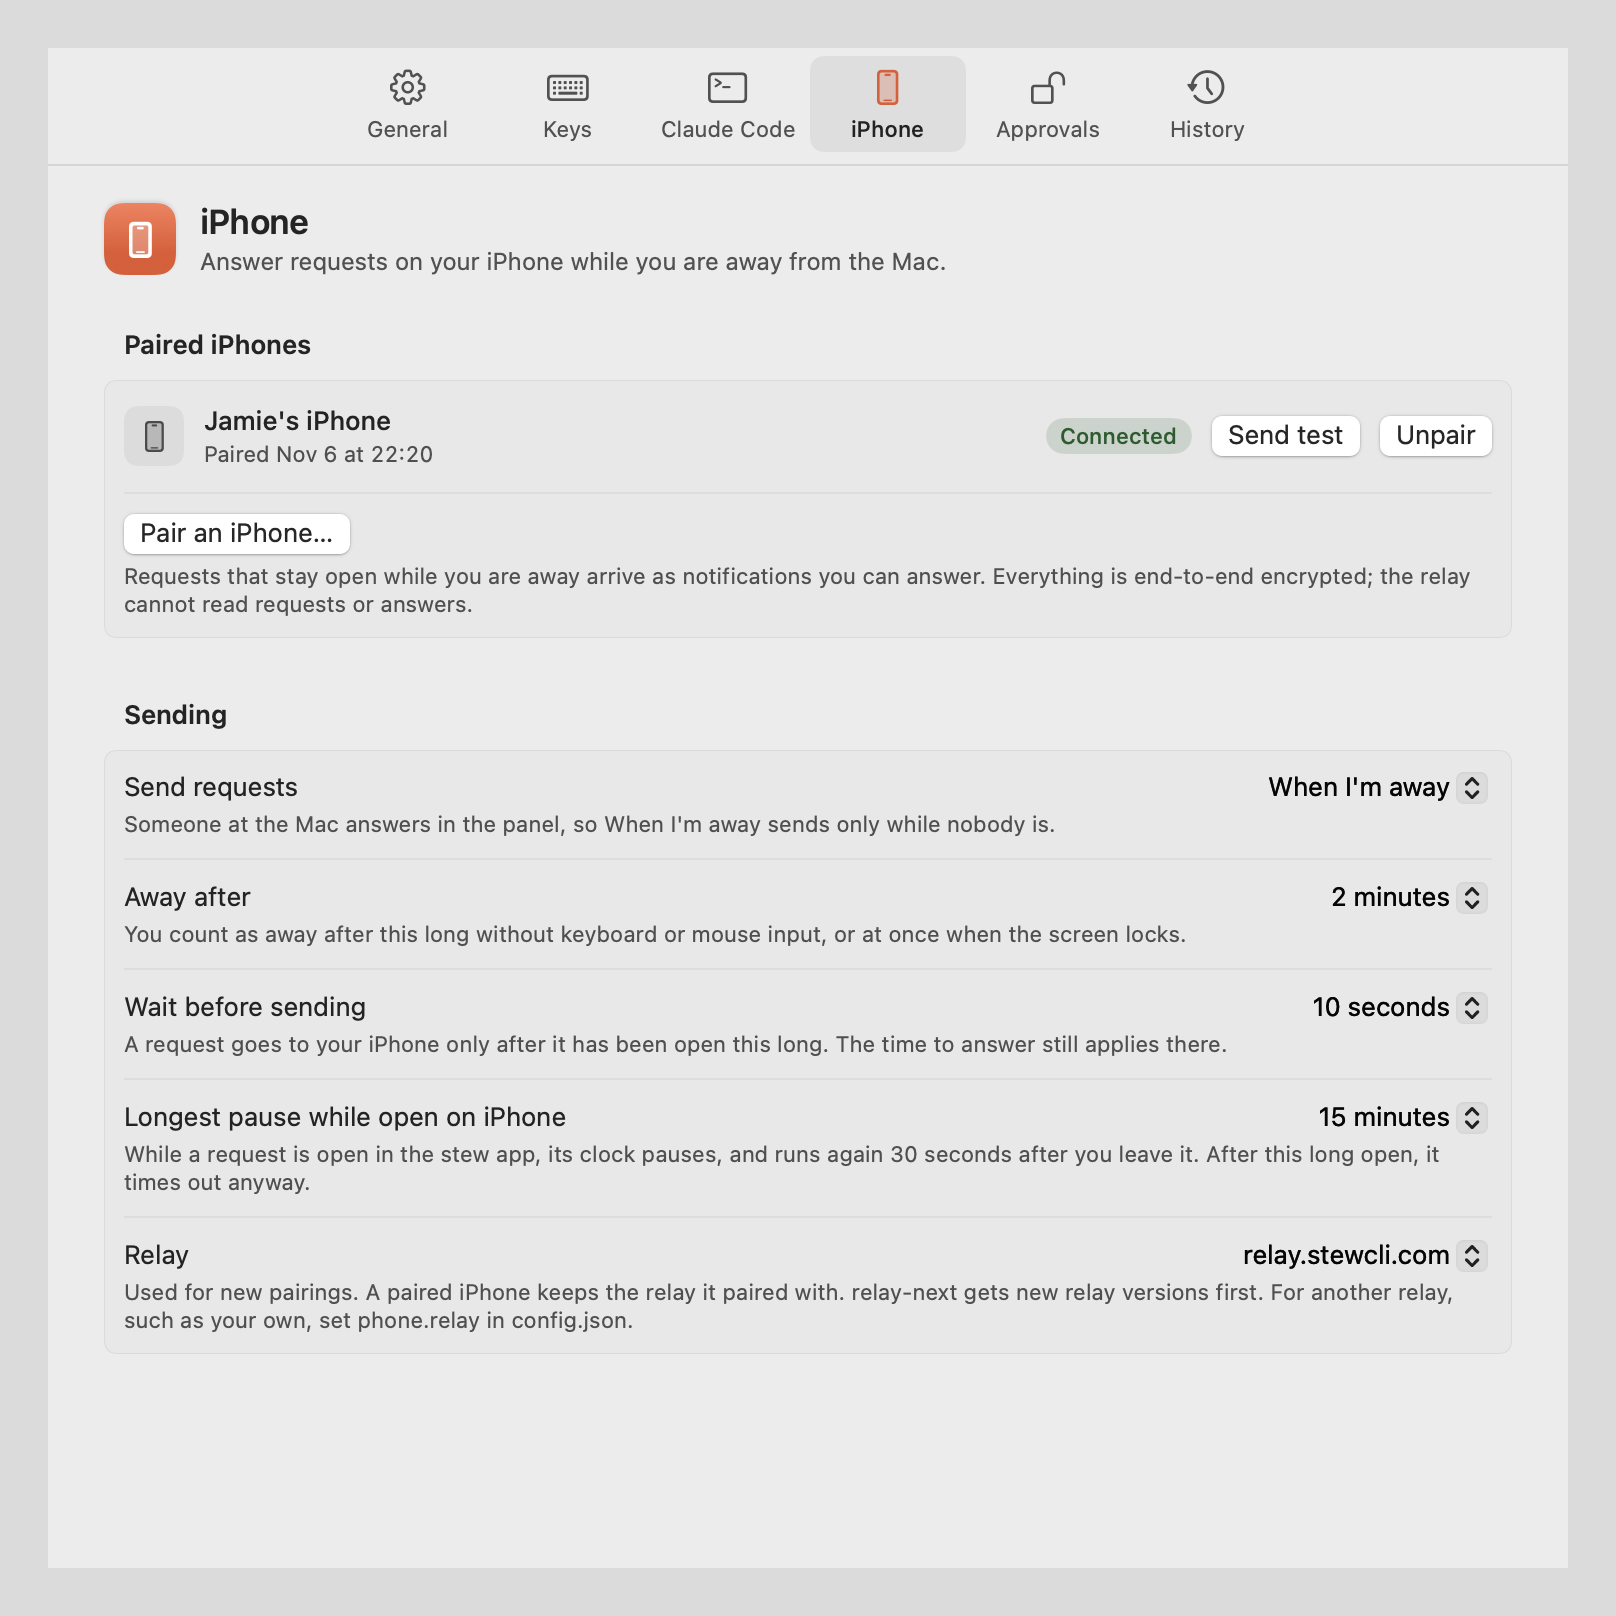
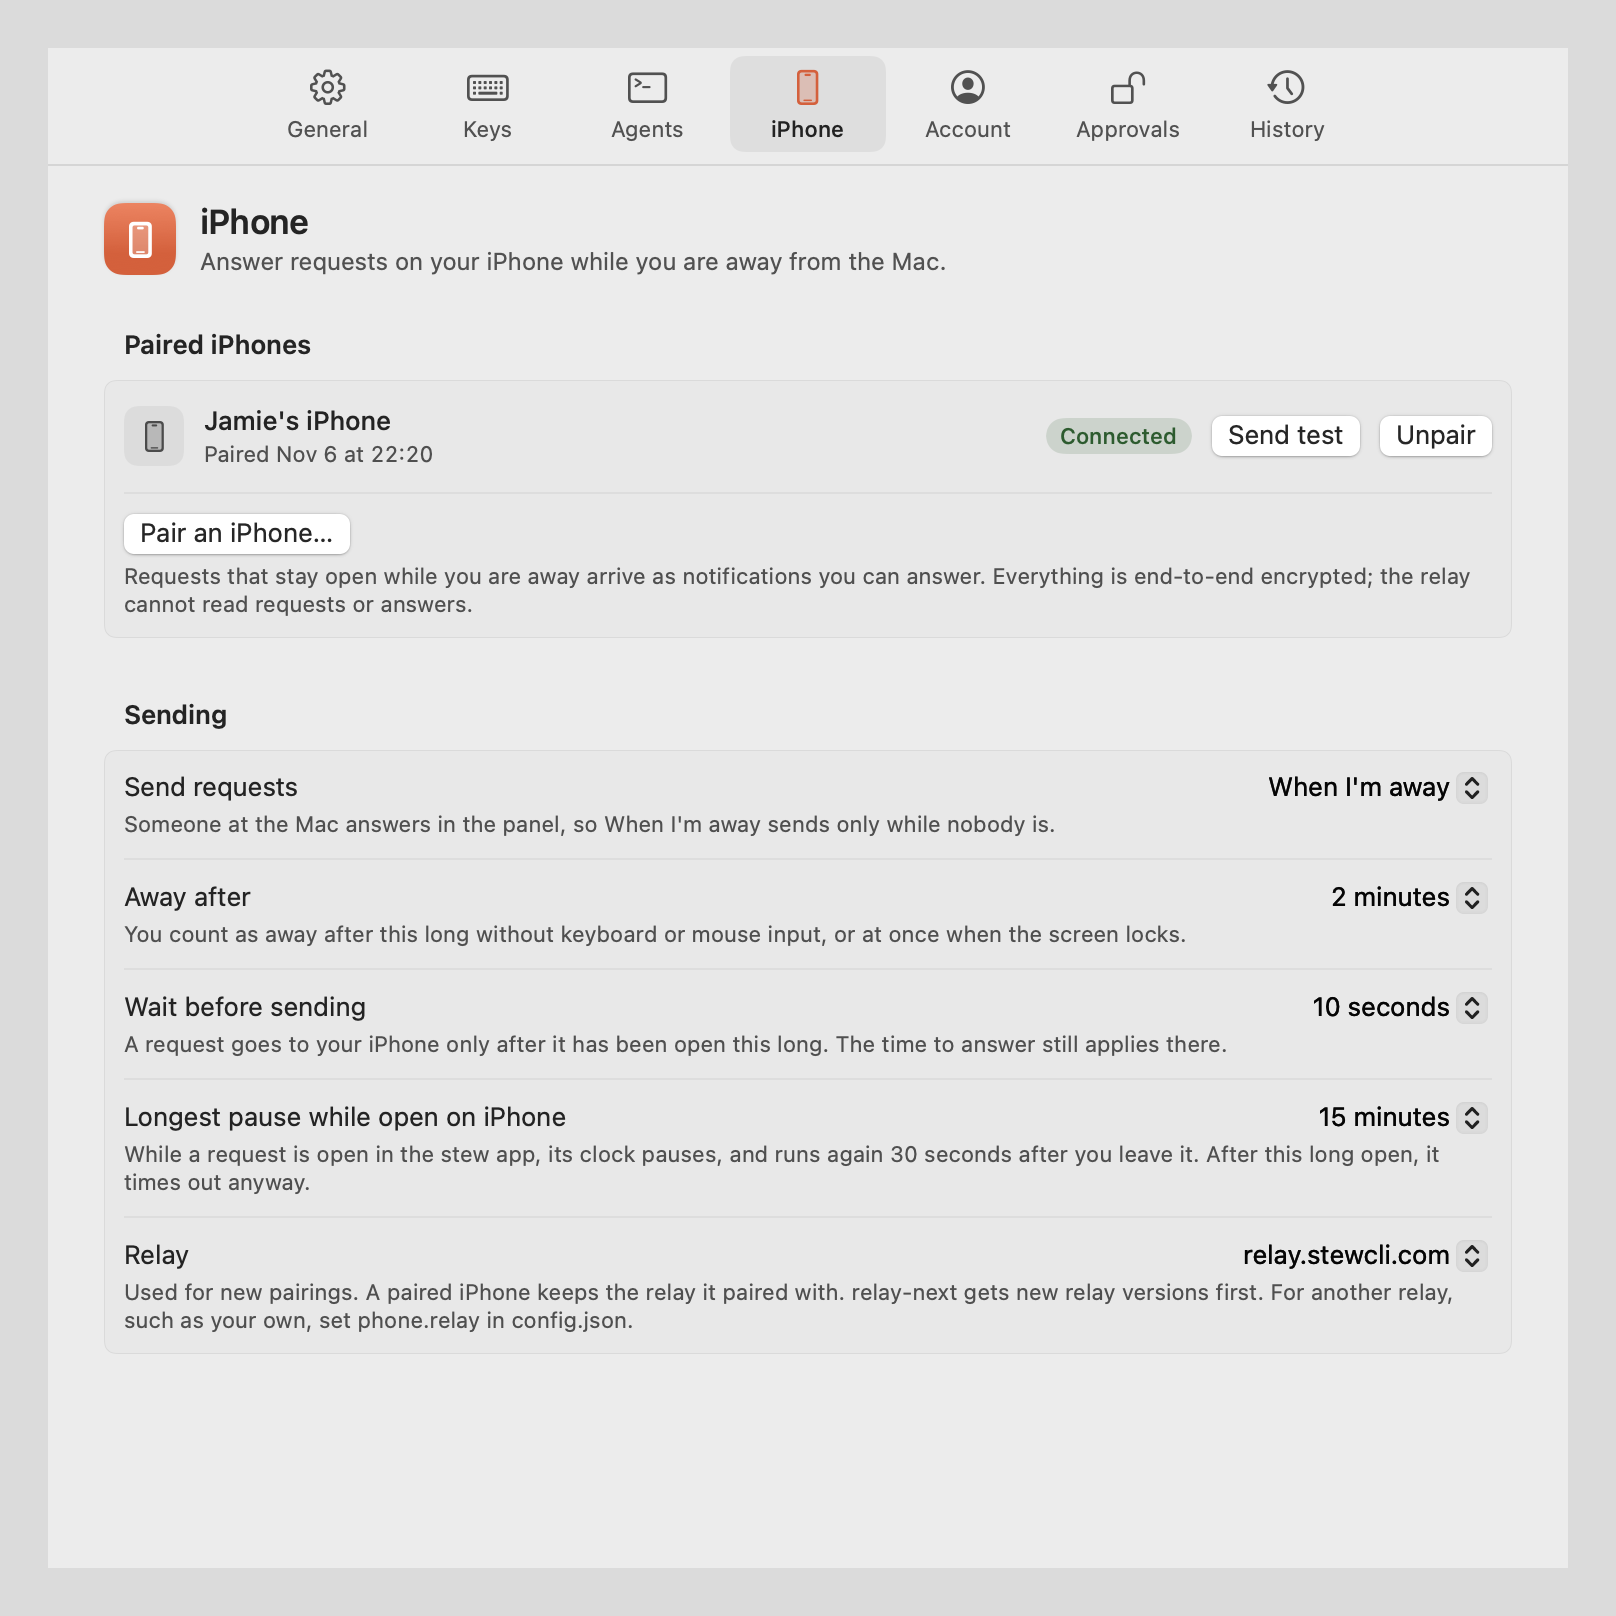
Update the README images for Codex, the account, the setup window and the stopped clock
Re-rendered only the images whose content changed: the grant picker and the
multi-question panel now show the stopped clock, the General pane has the Setup
section, and the iPhone panes' tab bar has Agents and Account. The other images
differ only in how this Mac renders tints today, so they stay as they are.

New images show a Codex approval, the Agents and Account panes, the setup
window's Agents step, a question with one of two answers picked, and a needs
item held on screen after its session ended it.

Changed region(s): [[0.3403, 0.0309, 0.8045, 0.0928], [0.1856, 0.0309, 0.3094, 0.0928]]

diff --git a/README.md b/README.md
@@ -88,6 +88,8 @@ The first time stew starts with no hooks installed for any agent, it opens a set
 4. **iPhone:** whether you are signed in and have a paired iPhone, with buttons to Settings → Account and Settings → iPhone.
 5. **Done:** where the menu bar icon is, how to reopen Settings and this window, and [stewcli.com/help](https://stewcli.com/help).
 
+![The setup window: skill and hooks installed for Claude Code and Codex](docs/images/setup-agents-installed-light.png)
+
 Closing the window, at any step, sets `"setup": {"completed": true}` in the config, so it does not open by itself again. Until then, opening Stew.app opens it instead of Settings. Reopen it any time with Set up stew… in the menu bar menu or in Settings → General.
 
 ### Let your agent set it up
@@ -140,7 +142,11 @@ What hooks cannot change:
 3. If the time to answer runs out, you close the panel, or stew is not running, stew decides nothing and Codex shows its own approval prompt in the terminal. Answer it there; such a request is not answered late from History.
 4. The `Stop` and `UserPromptSubmit` hooks do what they do for Claude Code: needs items from a `needs input:` line, and late answers to `stew` calls from that session.
 
+![Codex asks to run a command, in stew](docs/images/permission-codex-light.png)
+
 **Trust the hooks in Codex.** Codex runs a new or changed hook only after you review and trust it ([Codex hooks](https://learn.chatgpt.com/docs/hooks)). After installing, open `/hooks` in Codex and trust the stew hooks. Codex asks again when a hook changes, for example after the path to stew changes. `stew hooks status --agent codex` reminds you, and warns when `[features] hooks = false` in `~/.codex/config.toml` turns all hooks off.
+
+![Settings, Agents, with Claude Code and Codex](docs/images/settings-agents-codex-light.png)
 
 What Codex does not have, so stew does not do for it: auto mode and its retry after a block, standing approvals (Allow more…), and the AskUserQuestion tool. Codex does not say whether anyone is at the terminal either, so its needs items appear only with "Needs you from agents" set to Always in stew. Codex needs 0.122 or later for `PermissionRequest` hooks; versions before 0.129 run hooks without the trust step.
 
@@ -168,6 +174,8 @@ What Claude sessions wait on most is something only you can do: log in, buy more
 - When you come back to the Mac, the notice counts what still needs you ("2 things need you"), and an item you put off with Not now shows once more.
 - When Claude or the session ends an item that has been on screen for less than 5 seconds, it stays until it has shown 5 seconds in all, closed: how it ended (such as "Answered in session") takes the place of its buttons, as in History, and ⌘. closes it sooner. So a panel never flashes by before you can read it. An item that ends while it still waits behind a request goes at once.
 - Open items survive a restart. They end when you press Done or Decline, when Claude runs `stew needs resolve ID` after it sees the thing got done, or (for items from the hook below) when you write to that session.
+
+![A needs item the session ended, held on screen with how it ended](docs/images/needs-cleared-light.png)
 
 Claude or Codex can make one with `stew needs` (the skill tells it when). With the hooks, the agent also makes one by itself: when a turn ends with a line that starts with `needs input:`, the `Stop` hook turns that line into the title, a numbered list after it into the steps, code blocks in the message into commands, and up to 4 web addresses outside the code blocks into links. A session has at most one of these at a time, and none while it has an open item from `stew needs`. The `UserPromptSubmit` hook clears it as soon as you send that session a message, and a later turn that ends without a `needs input:` line clears it too (Moved on in the history). Claude Code also runs `UserPromptSubmit` for scheduled tasks, background agents reporting back and messages from other sessions, so those clear the item as well. By default this happens only in unattended Claude Code sessions (background and remote); Codex does not say whether anyone is watching, so for Codex it needs `"always"`. Change it in `stew settings` → Agents → "Needs you from agents", or with `"autoNeeds"` in the config: `"unattended"`, `"always"` or `"never"`.
 
@@ -231,6 +239,8 @@ Answers print as one JSON line. `stew --help` lists every command and flag.
 Permission requests, questions and inputs get 1 minute by default (`responseTimeout`). The clock starts when the request reaches the front of the panel, and it pauses while the note field or "Allow more…" is open. ⌘E adds 2 more minutes (`extendBy`) as often as you like. When the time runs out, the answer is `"status":"timeout"` with a note telling Claude you may be away, that it should continue another way or ask again later, and that a late answer may still follow (see Late answers). `--timeout SECONDS` overrides the limit for one call, and `--timeout 0` turns it off.
 
 Once you start answering a request, its clock stops for good: when you type into it (a note, an answer, an input's value), move between its questions (⌘] and ⌘[, or a click on a tab), pick an option that does not send the answer yet (one question of several, a multiple choice, a scope under "Allow more…"), or press ⌘↩ before it can be sent. The request then waits for you and is not sent to your iPhone. The panel shows "No time limit", or "Waits up to 29:40" when the caller has a hard limit (`maxWait`): Claude Code's hooks set one to stay inside Claude Code's own hook timeout, and stew cannot extend it.
+
+![One of two questions answered: the clock shows how long the caller still waits](docs/images/question-answering-light.png)
 
 While you answer one request, the ones that arrive meanwhile wait behind it, and their clocks do not run. When you answer or close it, the next one's clock starts fresh with the full time, or with what is left of its hard limit when that is less. A request whose hard limit runs out while it waits times out where it is, and Claude is told you were answering another request.
 
@@ -296,6 +306,8 @@ Waiting requests and late answers are in `~/Library/Application Support/stew/lat
 When a request stays open while you are away from your Mac, stew can send it to your iPhone as a notification you can answer: Approve (Face ID first on a locked phone), Deny, More time, a question's options, a typed reply to an input, or Done and the other answers on a needs item. A secret input is typed on the Mac or in the stew app's masked field, never in a notification; the notification offers Enter in app, Give me 5 min and I'll enter it later. The answer goes back to the Mac, end-to-end encrypted through a relay that cannot read it. It needs the stew iPhone app, which is distributed through TestFlight while stew is in beta. Pair a phone in `stew settings` → iPhone.
 
 The iPhone relay is the one part of stew that needs a plan; everything else is free and works without an account. Sign in with your email in `stew settings` → Account (a link and a 6-digit code arrive by email) to start a free trial, subscribe or manage billing. [docs/PHONE.md](docs/PHONE.md) explains when requests are sent, the security model and the wire protocol.
+
+![Settings, Account, during the free trial](docs/images/settings-account-trial-light.png)
 
 ## Keys
 
